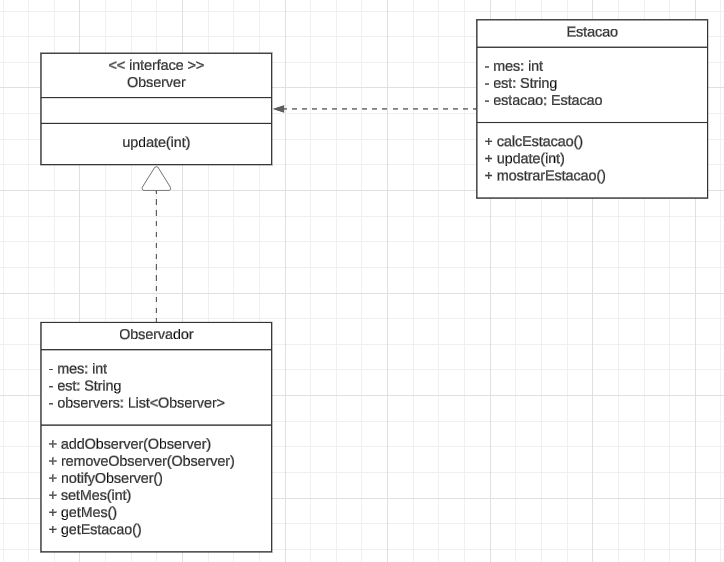
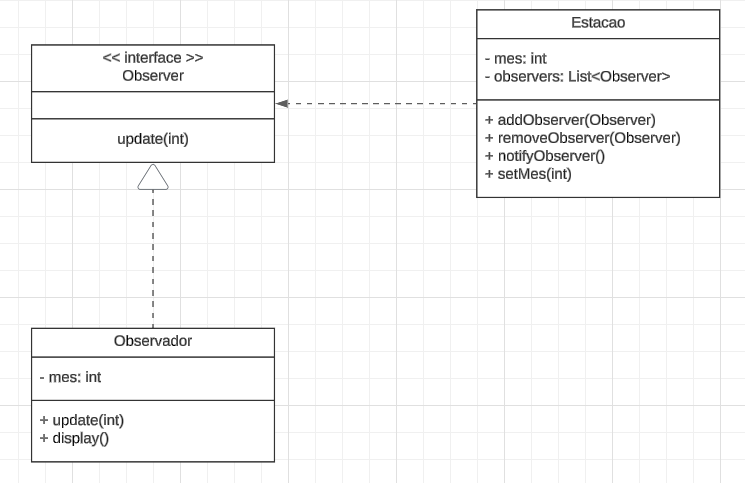
observer correcao, strategy img correcao

diff --git a/engenharia_3/observer/codigo/Estacao.java b/engenharia_3/observer/codigo/Estacao.java
@@ -9,40 +9,32 @@
  */
 import java.util.*;
 
-public class Estacao implements Observer{  
-    private int mes = 1;
-    private String est; 
-    private Observador observador;
+public class Estacao{    
     
-    public Estacao(Observador observador){
-        this.observador = observador;
-        observador.addObserver(this);
+    private int mes;
+  
+    private List<Observer> observers;
+    
+    public Estacao(){
+        observers = new ArrayList<Observer>();
     }
     
-    public void calcEstacao(){
-        if(mes >= 1 &&  mes <= 3){
-            est = "Verao"; 
-            System.out.print(est);
-        } else if(mes >= 4 &&  mes <= 6){
-            est = "Inverno"; 
-            System.out.print(est);
-        } else if(mes >= 7 &&  mes <= 9){            
-            est = "Outono";   
-            System.out.print(est);
-        } else {
-            est = "Primavera";   
-            System.out.print(est);
+    public void addObserver(Observer o){
+        observers.add(o);
+    }
+    
+    public void removeObserver(Observer o){
+        observers.remove(o);
+    }
+   
+    public void notifyObservers(){
+        for(Observer observer : observers){
+            observer.update(mes);
         }
     }
     
-    public void update(int m){
-        this.mes = m;
-        mostrarEstacao();        
-    }
-    
-    public void mostrarEstacao(){
-       System.out.print("A estacao e ");
-       calcEstacao(); 
-       System.out.println();
+    public void setMes(int m){
+        mes = m;
+        notifyObservers();
     }
 }

diff --git a/engenharia_3/observer/codigo/Observador.java b/engenharia_3/observer/codigo/Observador.java
@@ -7,43 +7,25 @@
  *
  * @author Fatec
  */
-import java.util.*;
 
-public class Observador{
+public class Observador implements Observer{   
+
+    private int mes;
     
-    private List<Observer> observers;
-    private int mes = 1;
-    private String est;     
-    
-    public Observador(){
-        observers = new ArrayList<Observer>();
+    public void update(int m){
+        mes = m;
+        display();        
     }
-    
-    public void addObserver(Observer o){
-        observers.add(o);
+
+    public void display(){
+        if(mes >= 1 &&  mes <= 3){      
+            System.out.println("A estacao e verao");          
+        } else if(mes >= 4 &&  mes <= 6){
+            System.out.println("A estacao e inverno"); 
+        } else if(mes >= 7 &&  mes <= 9){            
+            System.out.println("A estacao e outono"); 
+        } else {
+            System.out.println("A estacao e primavera"); 
+        }          
     }
-    
-    public void removeObserver(Observer o){
-        observers.remove(o);
-    }
-   
-    public void notifyObservers(){
-        for(Observer observer : observers){
-            observer.update(mes);
-        }
-    }
-    
-    public void setMes(int m){
-        this.mes = m;
-        notifyObservers();
-    }   
-    
-    public int getMes() {
-	return mes;
-    }
-    
-    public String getEstacao() {
-	return est;
-    }
-    
 }

diff --git a/engenharia_3/observer/codigo/TesteObserver.java b/engenharia_3/observer/codigo/TesteObserver.java
@@ -12,15 +12,13 @@ public class TesteObserver {
      * @param args the command line arguments
      */
     public static void main(String[] args) {
-        Observador estacao1 = new Observador();
-        
-        Estacao observer1 = new Estacao(estacao1);
-        Estacao observer2 = new Estacao(estacao1);        
-        
-        estacao1.setMes(1);
-        
-        estacao1.removeObserver(observer2);
-        
-        estacao1.setMes(6);
+        Estacao e = new Estacao();
+        Observador o1 = new Observador();
+        Observador o2 = new Observador();
+        e.addObserver(o1);
+        e.addObserver(o2);
+        e.setMes(1);
+        e.removeObserver(o2);
+        e.setMes(8);
     }
 }
